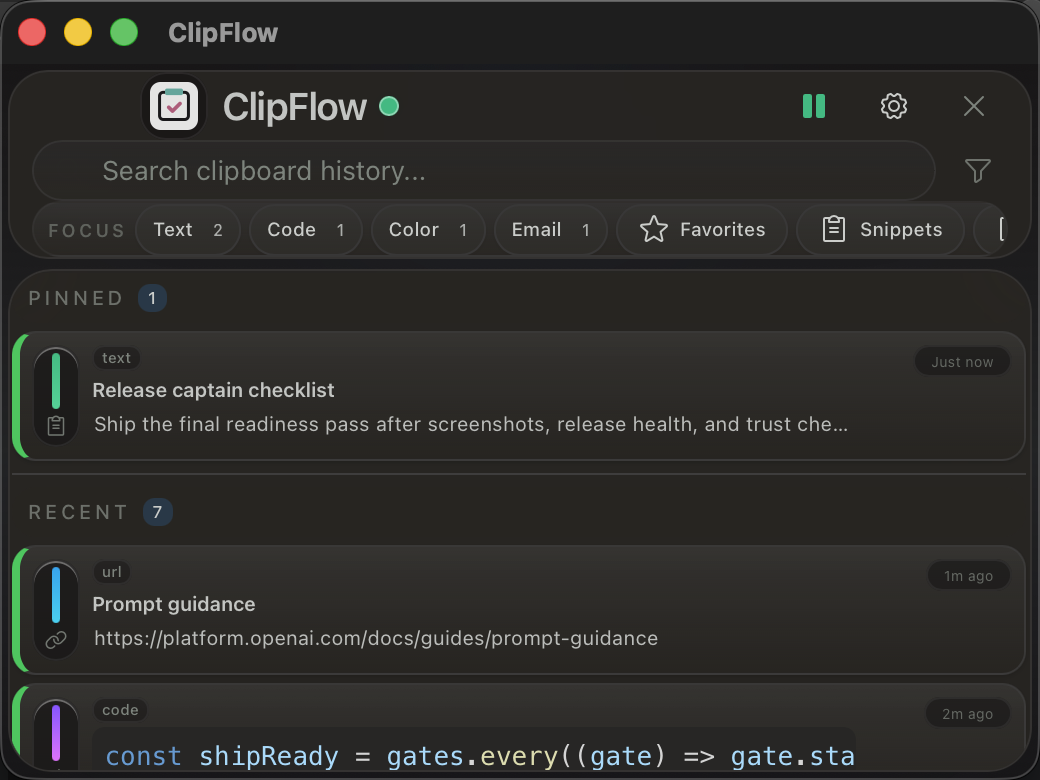
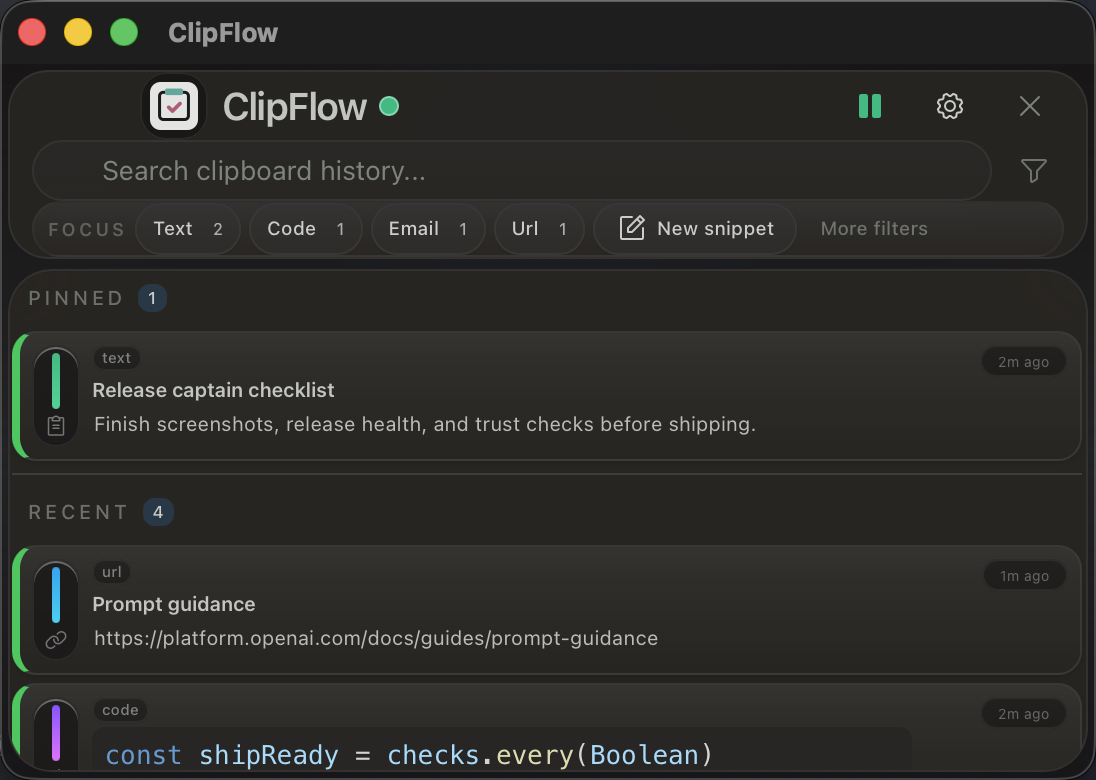
docs: narrow release gallery to compact main and tray views

diff --git a/README.md b/README.md
@@ -1,7 +1,7 @@
 # ClipFlow
 
 <div align="center">
-  <img src="docs/screenshots/main-ready/desktop-hero-carbonfox-kanagawa.png" width="760" alt="ClipFlow desktop hero showing the main window and tray workflow on macOS" />
+  <img src="docs/screenshots/main-ready/main-dark-default-kanagawa-dragon.png" width="760" alt="ClipFlow compact main window on macOS" />
 </div>
 
 <div align="center">
@@ -54,36 +54,32 @@ If the current build is not yet Developer ID signed and notarized, the install g
 
 ## Product Gallery
 
-### Density Range
+### Compact Main Window
 
 <table>
   <tr>
-    <td align="center" width="33.3%">
-      <strong>Comfortable · Dawnfox</strong><br />
-      <img src="docs/screenshots/main-ready/main-light-comfortable-dawnfox.png" width="280" alt="ClipFlow main window in Dawnfox with comfortable density" />
+    <td align="center" width="50%">
+      <strong>Light</strong><br />
+      <img src="docs/screenshots/main-ready/main-light-default-dawnfox.png" width="320" alt="ClipFlow compact main window in Dawnfox" />
     </td>
-    <td align="center" width="33.3%">
-      <strong>Compact · Kanagawa Dragon</strong><br />
-      <img src="docs/screenshots/main-ready/main-dark-default-kanagawa-dragon.png" width="280" alt="ClipFlow main window in Kanagawa Dragon with compact density" />
-    </td>
-    <td align="center" width="33.3%">
-      <strong>Dense · Carbonfox</strong><br />
-      <img src="docs/screenshots/main-ready/main-dark-dense-carbonfox.png" width="280" alt="ClipFlow main window in Carbonfox with dense density" />
+    <td align="center" width="50%">
+      <strong>Dark</strong><br />
+      <img src="docs/screenshots/main-ready/main-dark-default-kanagawa-dragon.png" width="320" alt="ClipFlow compact main window in Kanagawa Dragon" />
     </td>
   </tr>
 </table>
 
-### More Surfaces
+### Tray View
 
 <table>
   <tr>
     <td align="center" width="50%">
-      <strong>Tray · Night Owl</strong><br />
-      <img src="docs/screenshots/main-ready/tray-dark-night-owl.png" width="220" alt="ClipFlow tray window in Night Owl" />
+      <strong>Light</strong><br />
+      <img src="docs/screenshots/main-ready/tray-light-dawnfox.png" width="220" alt="ClipFlow tray window in Dawnfox" />
     </td>
     <td align="center" width="50%">
-      <strong>Settings · Kanagawa Dragon</strong><br />
-      <img src="docs/screenshots/main-ready/settings-dark-kanagawa-dragon.png" width="320" alt="ClipFlow settings view in Kanagawa Dragon" />
+      <strong>Dark</strong><br />
+      <img src="docs/screenshots/main-ready/tray-dark-night-owl.png" width="220" alt="ClipFlow tray window in Night Owl" />
     </td>
   </tr>
 </table>
